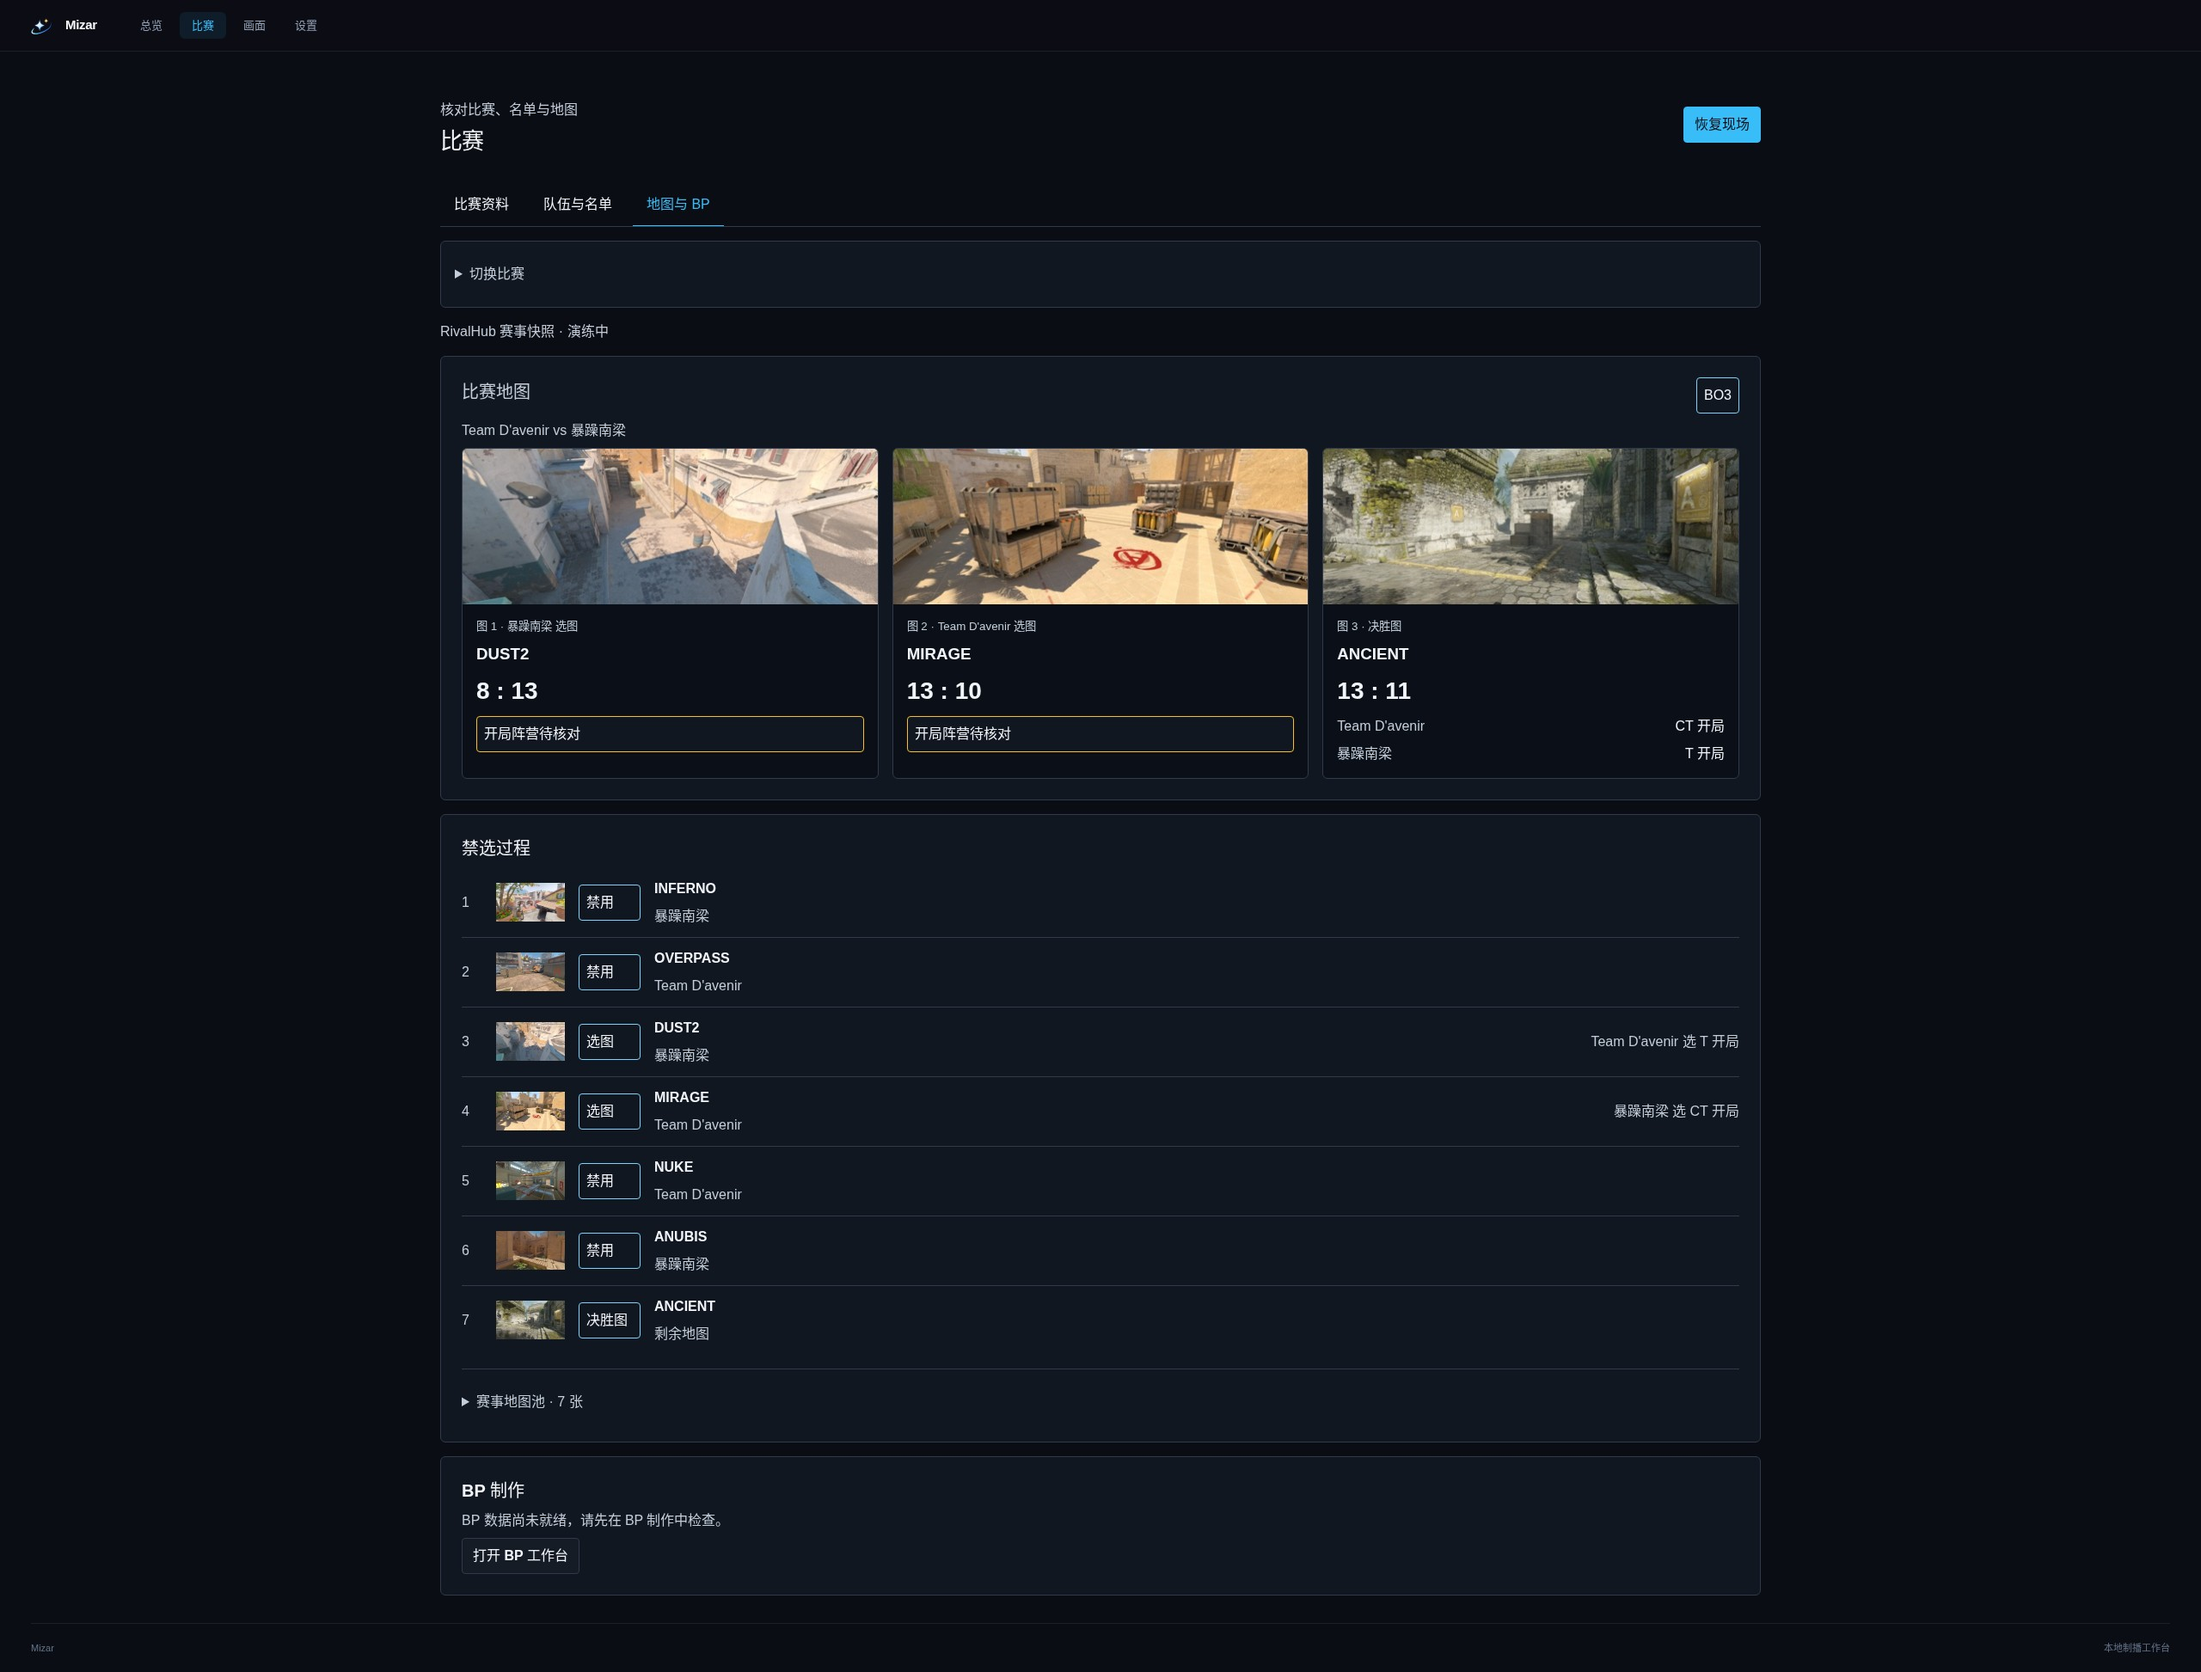
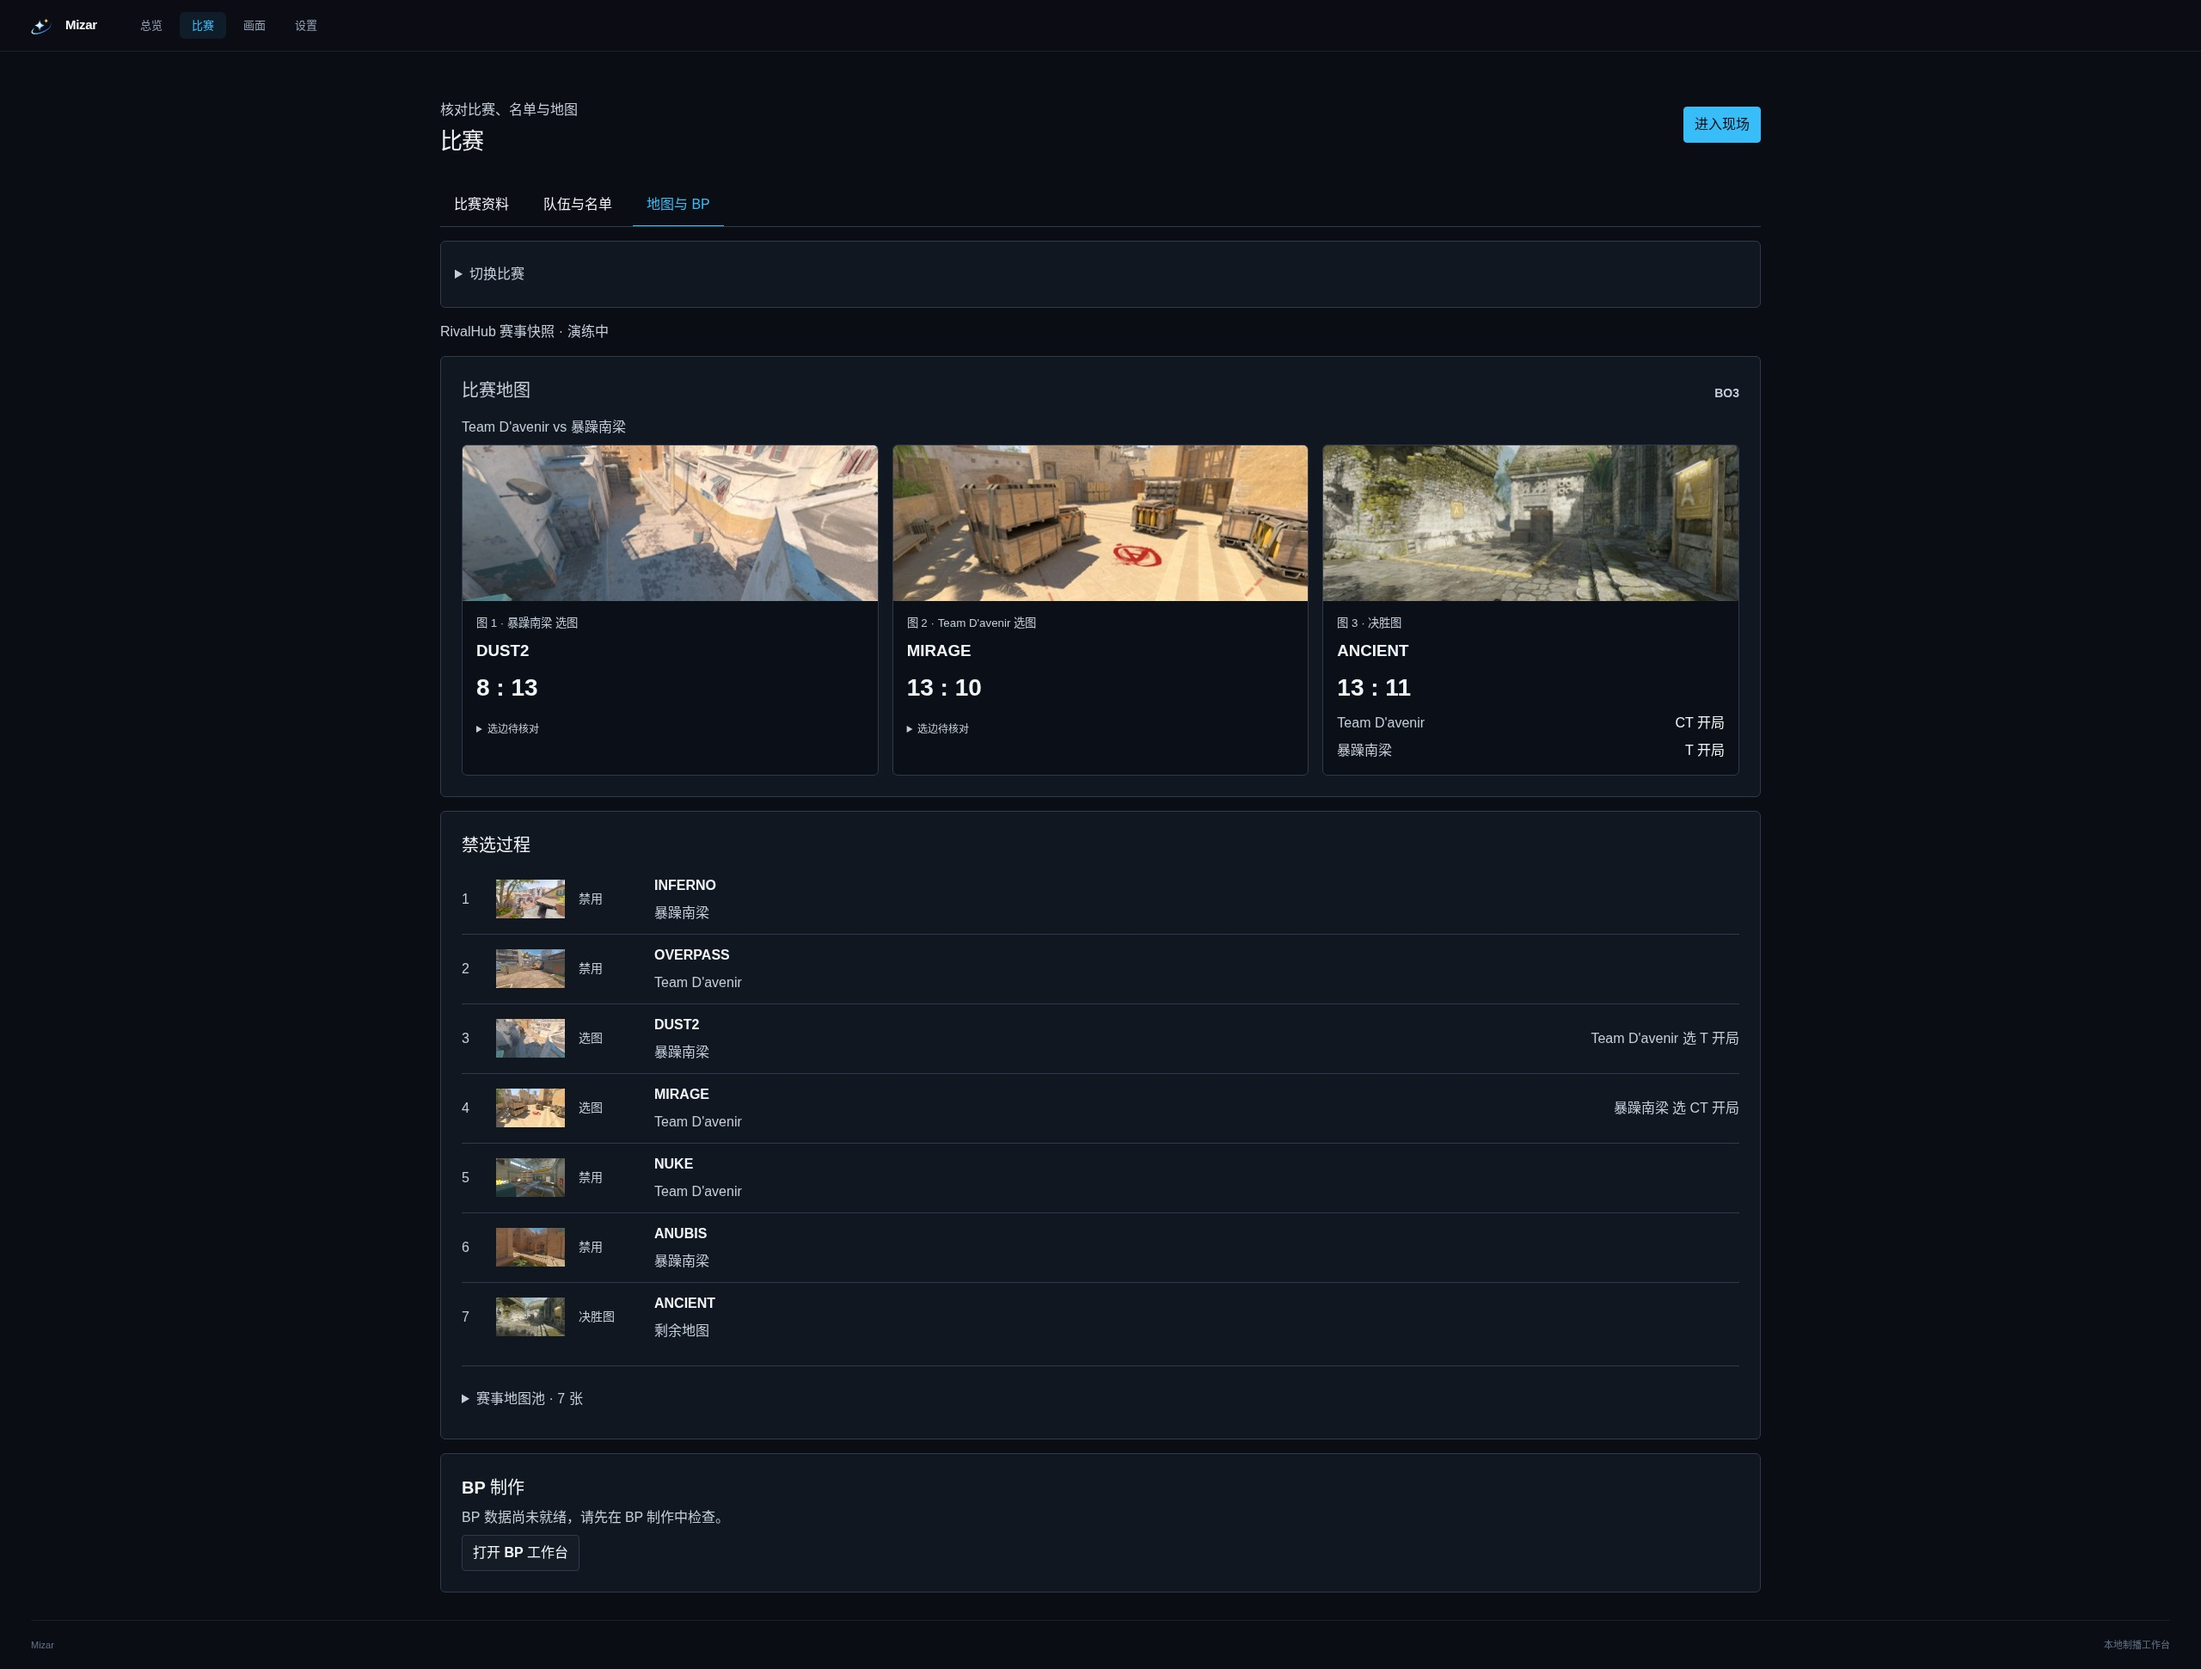
fix(ui): simplify veto labels and sync preview regression tests

diff --git a/apps/web/src/preparation/MatchDocumentView.tsx b/apps/web/src/preparation/MatchDocumentView.tsx
@@ -131,7 +131,7 @@ export function MatchDocumentView({
       <Panel>
         <div className="preparation-match__meta">
           <h2>比赛地图</h2>
-          <StatusPill tone="info">{match.format.toUpperCase()}</StatusPill>
+          <span className="match-format">{match.format.toUpperCase()}</span>
         </div>
         <p>
           {match.entrants.a.name} vs {match.entrants.b.name}
@@ -154,7 +154,12 @@ export function MatchDocumentView({
                     <h3>{mapLabel(map.name)}</h3>
                     {map.score ? <strong className="match-map-score">{map.score}</strong> : null}
                     {map.conflict ? (
-                      <StatusPill tone="warning">开局阵营待核对</StatusPill>
+                      <details className="match-side-review">
+                        <summary>选边待核对</summary>
+                        {map.sideNotes.map((note) => (
+                          <p key={note}>{note}</p>
+                        ))}
+                      </details>
                     ) : map.startA ? (
                       <dl className="match-map-sides" aria-label="开局阵营">
                         <div>
@@ -192,13 +197,13 @@ export function MatchDocumentView({
                   <li key={step.stepOrder}>
                     <span className="match-veto-number">{step.stepOrder}</span>
                     {image ? <img src={image.outputPath} alt="" /> : <span />}
-                    <StatusPill tone="info">
+                    <span className="match-veto-action">
                       {
                         { ban: '禁用', pick: '选图', side_pick: '选边', decider: '决胜图' }[
                           step.actionType
                         ]
                       }
-                    </StatusPill>
+                    </span>
                     <div className="match-veto-description">
                       <strong>{mapLabel(step.mapName)}</strong>
                       <span>

diff --git a/apps/web/test/preparation-ui.test.tsx b/apps/web/test/preparation-ui.test.tsx
@@ -63,6 +63,8 @@ const sampleMatch = {
   format: 'bo3',
   stageLabel: '总决赛',
   roundLabel: null,
+  round: null,
+  entryRound: null,
   matchLabel: '第一场',
   scheduledAt: '2026-09-28T12:00:00.000Z',
   entrants: {
@@ -183,9 +185,11 @@ describe('PreparationPage: readiness and sample workflow', () => {
     // Confirmed maps
     expect(summary?.textContent).toContain('地图 · 已确定 2 图（ancient · nuke）');
 
-    // Wording uses "Rivals 示例阶段推进" (no "演练")
-    expect(container.textContent).toContain('Rivals 示例阶段推进');
-    expect(container.textContent).not.toContain('演练');
+    // Development rehearsal controls are available on demand.
+    const rehearsal = container.querySelector('.preparation-rehearsal-stage');
+    expect(rehearsal?.querySelector('summary')?.textContent).toBe('演练控制');
+    expect(rehearsal?.hasAttribute('open')).toBe(false);
+    expect(container.textContent).not.toContain('undefined');
 
     // Schedule selector allows switching sample matches
     const select = container.querySelector('#rehearsal-match-select') as HTMLSelectElement;

diff --git a/apps/web/src/preparation/match-presentation.ts b/apps/web/src/preparation/match-presentation.ts
@@ -10,7 +10,7 @@ export function matchRound(
 ): string | null {
   return (
     match.roundLabel?.trim() ||
-    (match.round !== null ? `第 ${match.round} 轮` : match.entryRound?.trim() || null)
+    (typeof match.round === 'number' ? `第 ${match.round} 轮` : match.entryRound?.trim() || null)
   );
 }
 
@@ -77,6 +77,14 @@ export function matchMaps(match: Pick<MatchDocumentV1, 'maps' | 'veto' | 'entran
         startA,
         startB: startA ? opposite(startA) : null,
         conflict,
+        sideNotes: [
+          ...new Set([
+            ...(map?.teamAStartSide
+              ? [`地图记录：${match.entrants.a.name} ${map.teamAStartSide} 开局`]
+              : []),
+            ...choices.map((choice) => `BP 记录：${match.entrants.a.name} ${choice.teamA} 开局`),
+          ]),
+        ],
       };
     })
     .sort((a, b) => a.order - b.order);

diff --git a/apps/web/src/preparation/preparation.css b/apps/web/src/preparation/preparation.css
@@ -569,3 +569,21 @@
     text-align: left;
   }
 }
+.match-format,
+.match-veto-action {
+  font-size: var(--mizar-type-size-body);
+  font-weight: var(--mizar-type-weight-strong);
+  color: var(--mizar-fg-secondary);
+}
+.match-side-review {
+  color: var(--mizar-fg-secondary);
+  font-size: var(--mizar-type-size-small);
+}
+.match-side-review summary {
+  color: var(--mizar-status-warning);
+  cursor: pointer;
+  padding-block: var(--mizar-layout-compact);
+}
+.match-side-review p {
+  padding-top: var(--mizar-layout-compact);
+}

diff --git a/apps/web/test/program-scenes-preview.test.tsx b/apps/web/test/program-scenes-preview.test.tsx
@@ -115,7 +115,7 @@ describe('Program scenes preview and safety boundaries', () => {
         '.waiting-layout, .intro-body, .summary-players, .result-sting',
       );
       expect(main, `scene ${sceneId} should render default content in preview mode`).not.toBeNull();
-      expect(container.textContent).toContain('画面样例');
+      expect(container.textContent).toContain('示例画面');
       expect(container.textContent).toContain(sceneId === 'waiting' ? '2026 NJU Rivals' : 'FURIA');
     }
 

diff --git a/docs/design/reviews-107.md b/docs/design/reviews-107.md
@@ -66,7 +66,7 @@
 | 地图与选图队伍 | 比赛地图与禁选记录 | 按比赛顺序分卡，保留选图归属、比分和决胜图；尚未打出的决胜图也可从禁选记录展示 |
 | 开局阵营 | 地图开局阵营、明确选边步骤、旧选图内嵌选边 | PICK 的内嵌 side 属于对手；选边步骤及明确队伍的 DECIDER 属于该队。统一显示双方开局阵营；证据冲突时提示核对 |
 
-本例快照的 Dust2、Mirage 地图开局阵营与旧 BP 选边记录冲突；线上 BP 页也明确显示相应选边队伍。新 UI 保留逐步记录，并在地图卡显示「开局阵营待核对」。未修改网站数据，也未解除 Core 现有的 BP 冲突阻断。
+本例快照的 Dust2、Mirage 地图开局阵营与旧 BP 选边记录冲突；线上 BP 页也明确显示相应选边队伍。新 UI 保留逐步记录，禁选类型使用无描边文字标签；地图卡用小型可展开的「选边待核对」提示，展开后并列给出地图记录与 BP 记录。未修改网站数据，也未解除 Core 现有的 BP 冲突阻断。
 
 填写与维护按 owner 分工：本地比赛只保留当前有用途的输入；网站连接模式提供当前比赛的「在网站管理」入口。工作区的自动模式默认收起八个场景按钮，展开只影响显示，选择场景才进入手动保持；恢复自动会重新收起。BP 入口和进度统一在底栏比赛区。
 
